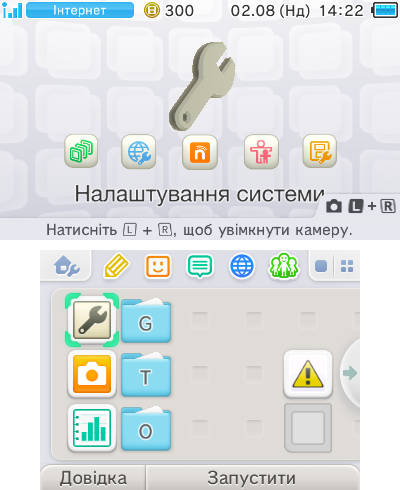
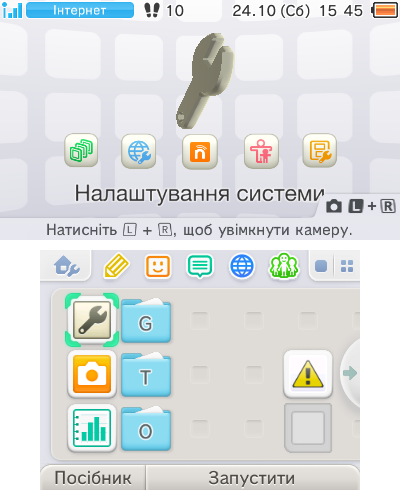
docs: retake README screenshots with the real letters and the current HOME Menu labels
Friend List, the System Settings manual page and three HOME Menu screens (System Settings,
AR Games, StreetPass Mii Plaza) were shot before the real і ї є ґ and still showed the
manual button as «Довідка»; it reads «Посібник» now.

diff --git a/README.md b/README.md
@@ -26,7 +26,7 @@
 <tr>
 <td><img src="assets/pictures/home-menu-streetpass-plaza.png" width="250" alt="Меню HOME: банер Площі StreetPass Mii"></td>
 <td><img src="assets/pictures/manual-system-settings-contents.png" width="250" alt="Електронний довідник Налаштувань системи: зміст"></td>
-<td><img src="assets/pictures/manual-system-settings-page.png" width="250" alt="Електронний довідник Налаштувань системи: сторінка «Під'єднання до Інтернету»"></td>
+<td><img src="assets/pictures/manual-system-settings-page.png" width="250" alt="Електронний довідник Налаштувань системи: сторінка «Зв'язок із кодом»"></td>
 </tr>
 </table>
 
